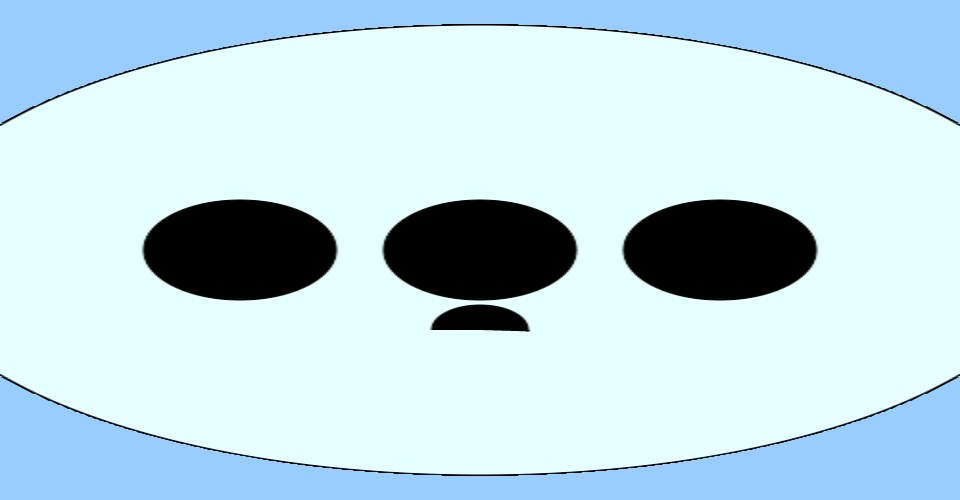
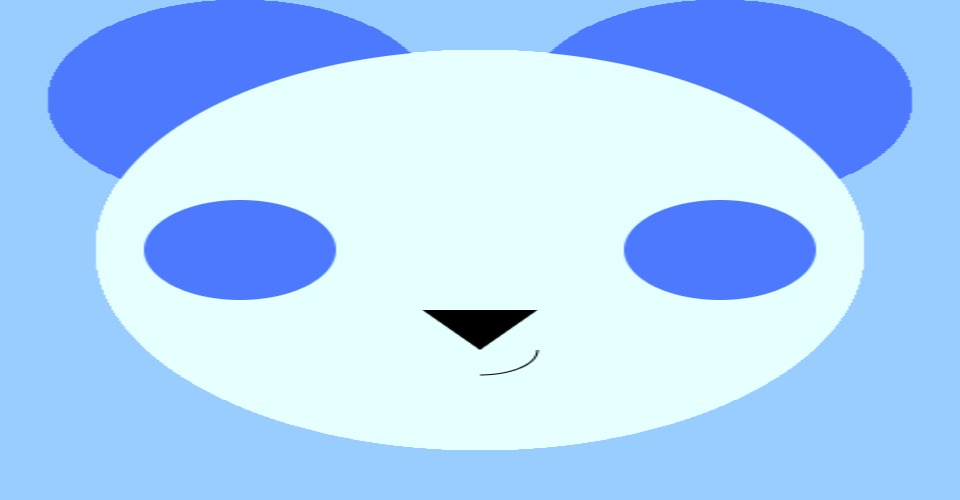
update on teddy

diff --git a/teddy/sketch.js b/teddy/sketch.js
@@ -49,7 +49,8 @@ function draw () {
     ellipse(width/2, height/2, headsize, headsize);
     fill(0);
     //eyes
-    fill( '#b35900');
+    
+    fill( '#4d79ff');
     eye_value = eye_slider.value();
     if (eye_value === 1 || eye_value == 3) {
     	ellipse(width/2,height/2, 100,100);
@@ -60,8 +61,13 @@ function draw () {
     }
   
   //mouth
-  	 //arc(459, 485, 250, 220, TWO_PI, PI/2);
-  	// arc(width/2,height/2+80,50,50, -180, PI);
+  	noFill();
+    stroke(0);
+
+  	arc(width/2,height/2+100,60,50, 0, 90);
+    noStroke();
+    //nose
+    fill(0);
     triangle(noseloci, noseloci+100, noseloci+noseXoffset, noseloci+noseYoffset, noseloci-noseXoffset, noseloci+noseYoffset);
 
 
